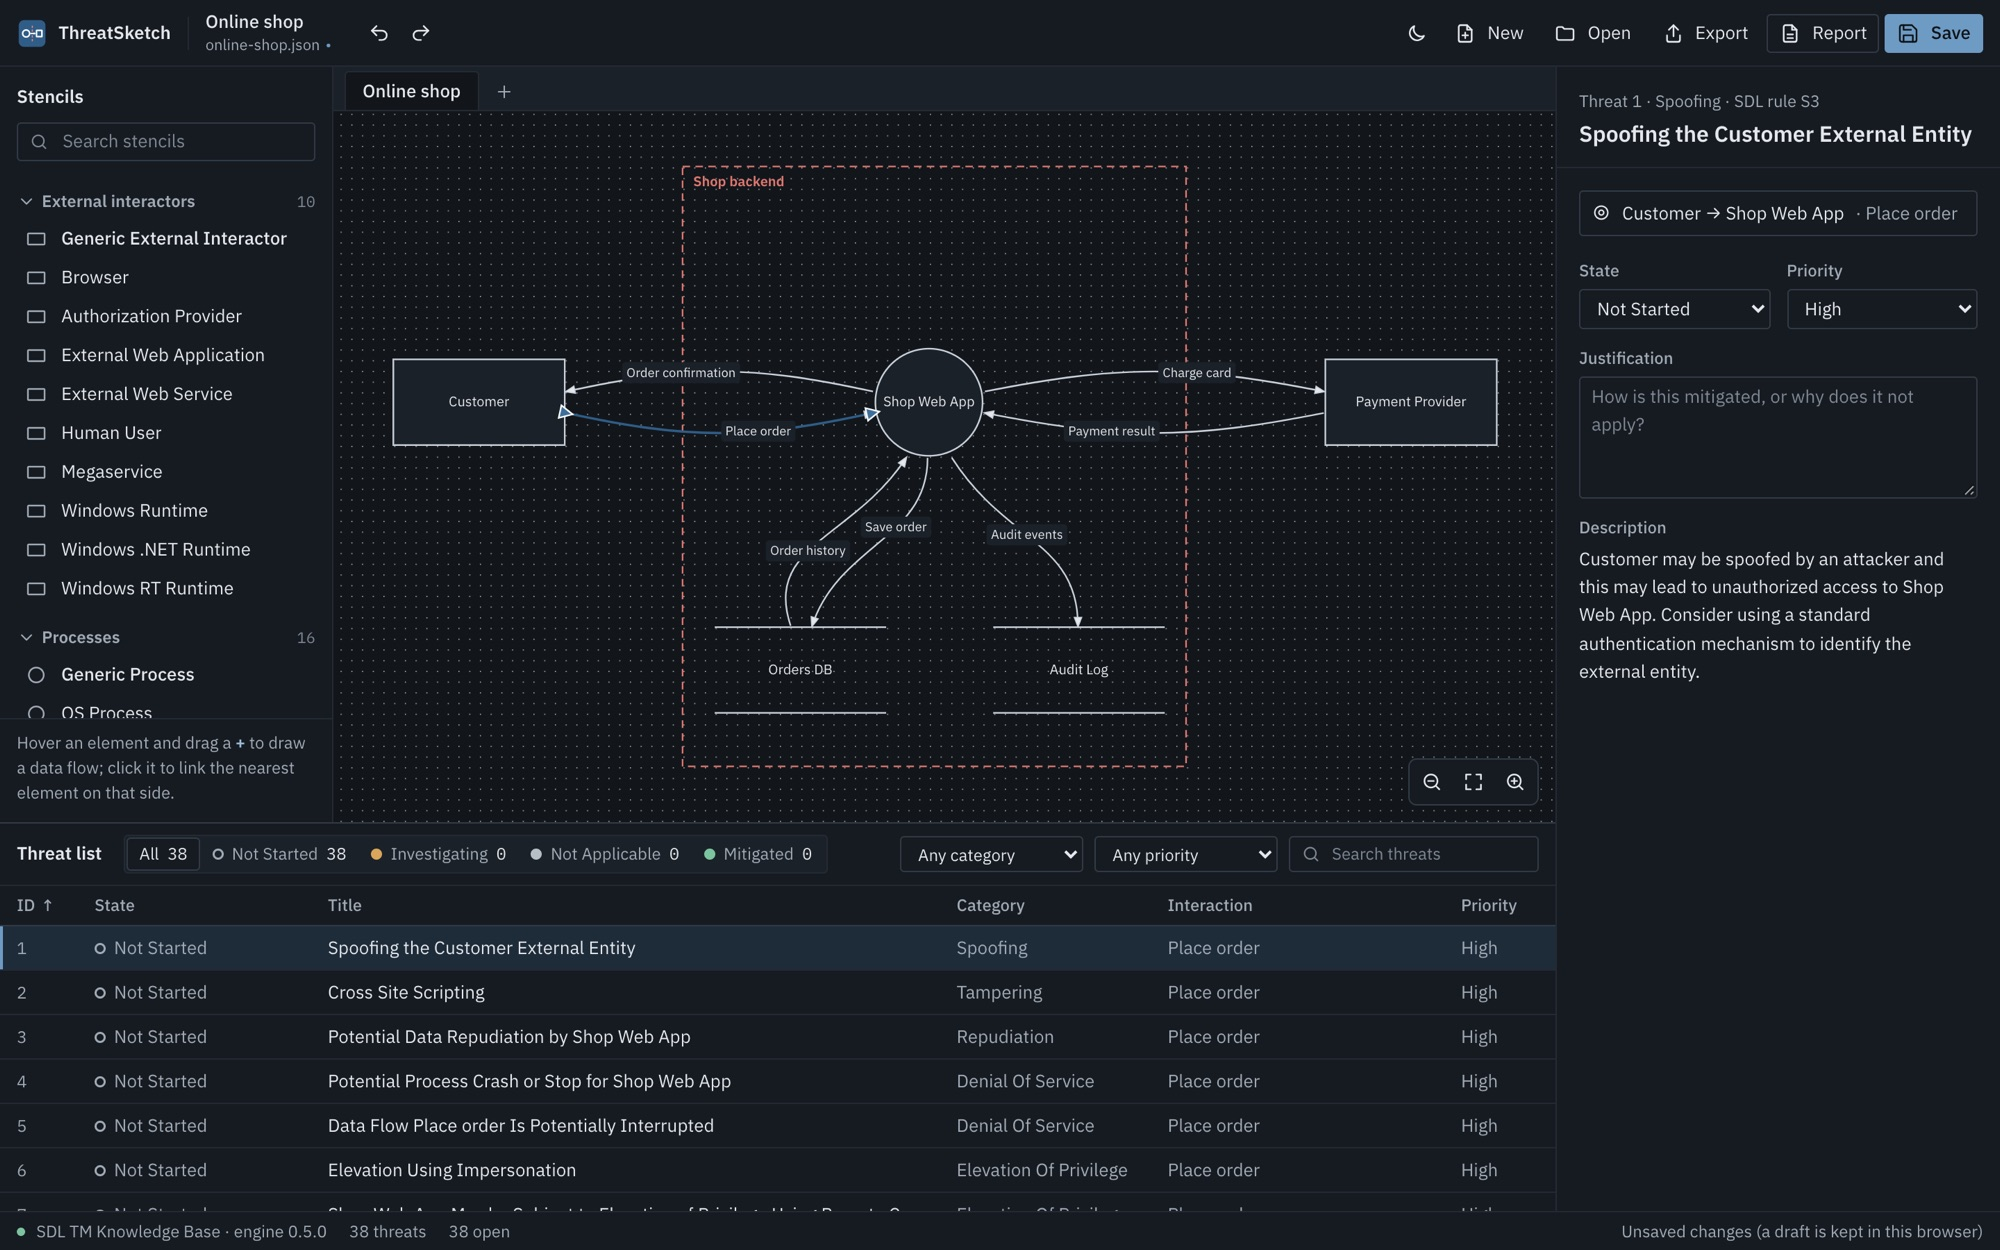
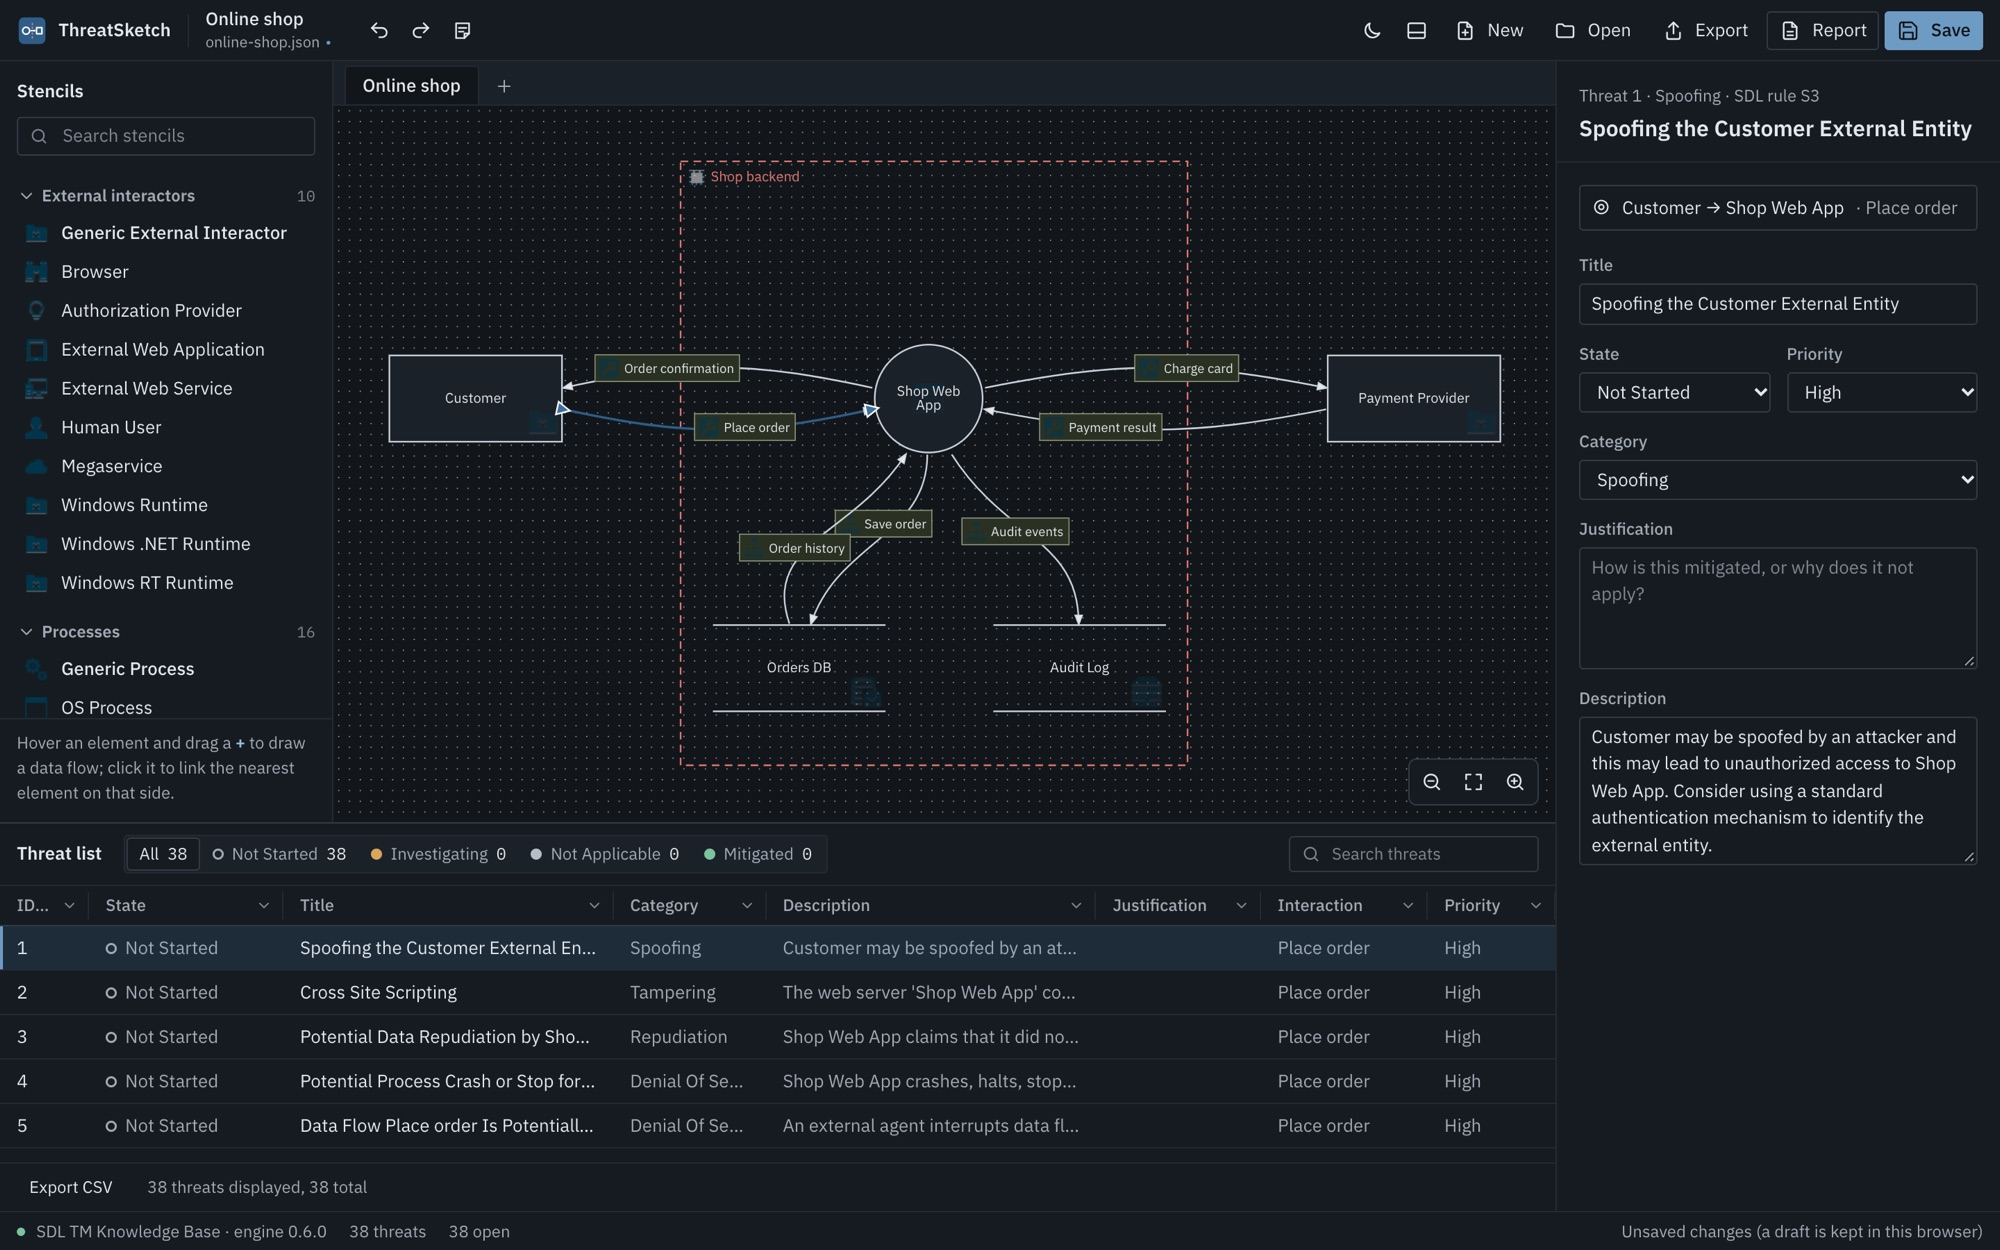
README, screenshots and changelog for 0.6.0; release 0.6.0
The README describes TMT's layout as an option and the new triage and
notes features, with a screenshot of the TMT layout; the export and
report paragraph matches the default layout again. All screenshots are
retaken (stencil icons, flow label boxes, the new threat list). The
screenshot script works in the default layout and adds the TMT one.
The changelog's Unreleased section is one coherent 0.6.0 entry, crediting
@josetseph for the TMT parity work. The ID column is a little wider so its
sort arrow fits.

diff --git a/app/src/components/ThreatList.svelte b/app/src/components/ThreatList.svelte
@@ -16,7 +16,7 @@
   // TMT's columns, in its order. Each takes at least `min` px and a share (`fr`) of the room left,
   // until it is resized by hand; columns with nothing to say yet stay out (see `cols`).
   const ALL: { col: Col; label: string; min: number; fr: number }[] = [
-    { col: "id", label: "ID", min: 48, fr: 0 },
+    { col: "id", label: "ID", min: 76, fr: 0 },
     { col: "diagram", label: "Diagram", min: 100, fr: 0.6 },
     { col: "changedBy", label: "Changed by", min: 90, fr: 0.5 },
     { col: "lastModified", label: "Last modified", min: 150, fr: 0 },
@@ -26,7 +26,7 @@
     { col: "description", label: "Description", min: 110, fr: 2 },
     { col: "justification", label: "Justification", min: 90, fr: 1 },
     { col: "interaction", label: "Interaction", min: 120, fr: 1 },
-    { col: "priority", label: "Priority", min: 64, fr: 0 },
+    { col: "priority", label: "Priority", min: 92, fr: 0 },
   ];
   // Diagram once there are two; Changed by and Last modified once something has been triaged
   const cols = $derived(ALL.filter(({ col }) =>

diff --git a/src/threatsketch/__init__.py b/src/threatsketch/__init__.py
@@ -2,6 +2,6 @@
 
 from importlib.resources import files
 
-__version__ = "0.5.1"
+__version__ = "0.6.0"
 
 DEFAULT_TEMPLATE = files("threatsketch") / "data" / "templates" / "default.tb7"

diff --git a/CHANGELOG.md b/CHANGELOG.md
@@ -6,58 +6,43 @@ One version covers the app and the command-line tool. The format follows
 
 ## [Unreleased]
 
+## [0.6.0] - 2026-10-14
+
+Most of this release is TMT parity work by @josetseph, reviewed and finished here.
+
 ### Added
 
-- TMT's Notes pane (View > Notes, or the toolbar): notes for the whole model, with Id, date and
-  author, kept in `.tm7` imports and exports, tabbed with the threat list as in TMT.
-
-- A threat's title, category and description can be edited, as in TMT's Threat Properties. The
-  edits are kept by later analyses and written to `.tm7` exports.
-- Element properties are grouped as in TMT: Predefined Static Attributes (set by the stencil),
-  then Configurable Attributes, "As Generic Process" (or interactor, store, flow).
-
-- The threat list has TMT's eleven columns in TMT's order (ID, Diagram, Changed By, Last Modified,
-  State, Title, Category, Description, Justification, Interaction, Priority), resizable, each
-  with a filter drop-down of its values, as in TMT. Below it, as in TMT: Export Csv and
-  "N Threats Displayed, M Total". The column filters replace the category and priority menus.
-
-- TMT's menu bar: File, Edit, View, Diagram, Reports and Help, with TMT's items and shortcuts.
-  New, Open, Export and Report moved into it (exports under File and Reports, as in TMT). File
-  also has Save As, Threat Model Information and Close Model; Help links to TMT's and the SDL's
-  pages.
-- TMT's toolbar, in TMT's order: Open; Design and Analysis view; add and delete diagram; copy,
-  cut, paste; undo, redo; zoom.
-- Design and Analysis views, as in TMT: Design shows the stencils, Analysis the threat list. View
-  shows or hides each pane; selecting a threat, or the threat count, opens the Analysis view.
-- Cut (Ctrl+X), and Ctrl+N, Ctrl+Shift+S and Ctrl+plus/minus for new, save as and zoom.
-
-- TMT's stencil icons, from the template: faded inside processes (centred), interactors and data
-  stores (lower right), before each trust boundary's name, and in the stencil list.
-- Flow names in TMT's pale green box with the flow stencil's icon before the name.
-
-- Assumptions and External Dependencies, TMT's two other model fields: edited in the model's
-  properties, shown in the report, and kept through `.tm7` import and export.
+- **TMT's layout, as an option.** TMT's menu bar (File, Edit, View, Diagram, Reports, Help, with
+  TMT's items and shortcuts), its toolbar in TMT's order, and Design and Analysis views. Switch
+  with the layout button in the header or View > TMT layout; the choice is remembered. The default
+  layout is unchanged: every pane in view, so threats appear as you draw.
+- **TMT's stencil icons** on the canvas and in the stencil list, and flow names in TMT's pale green
+  box with the flow stencil's icon.
+- **TMT's threat list columns**: ID, Diagram, Changed by, Last modified, State, Title, Category,
+  Description, Justification, Interaction, Priority, resizable, each with a filter of its values,
+  and Export CSV with "N threats displayed, M total" below. Columns with nothing to show yet (one
+  diagram, nothing triaged) stay out of the way.
+- **Editing a threat's title, category and description**, as in TMT's Threat Properties. Later
+  analyses keep the edits, and `.tm7` exports carry them.
+- **Last modified**: when a threat was triaged, in the list, the CSV and `.tm7` exports.
+- **TMT's Notes pane**: notes about the model, kept through `.tm7` import and export.
+- **Assumptions and External Dependencies**, TMT's other two model fields, in the model's
+  properties, the report and `.tm7` files.
+- Cut, Close model, Save as, and (desktop app) Cmd/Ctrl+N and zoom shortcuts.
 
 ### Changed
 
-- Names wrap inside their shape between words, as in TMT, instead of breaking mid-word or
-  running past the edge. Trust boundary names are no longer bold, as in TMT.
+- Element properties are grouped as in TMT: predefined static attributes, then configurable ones.
+- Names wrap inside their shape between words, as in TMT. Trust boundary names are not bold.
 
 ### Fixed
 
-- A `.tm7` imported from TMT and then renamed, or given other contributors, exported with the old
-  name and contributors; edits are now exported, and an unedited model still exports unchanged.
-- Justifications typed in TMT 7.3 were lost on `.tm7` import: TMT keeps them in the threat's
-  properties, not where import looked. A model triaged in TMT, with notes, now exports back
-  unchanged.
-
-- Last Modified shows when a threat was triaged, as TMT does ("13/10/2026 9:56:59 pm"), in the
-  list and the CSV; it was empty. Triage here stamps the time too, and `.tm7` exports carry it.
-
-- A threat TMT stored with Id 0 now shows as TMT shows it, the highest Id + 1, in the list, the
-  report and the CSV. A real TMT model's CSV now matches TMT's own export row for row.
-- A `.tm7` export kept each flow's TMT Dataflow Order at 0; it now writes back the number TMT gave
-  it, so a real TMT model exports back unchanged.
+- `.tm7` imports from TMT 7.3 lost justifications: TMT keeps them in the threat's properties.
+  Justifications and notes now round-trip exactly, line breaks included.
+- A `.tm7` export wrote every flow's Dataflow Order as 0, and the model's original name and
+  contributors even after they were edited. A real TMT model now exports back unchanged, and
+  edits are exported.
+- A threat TMT stored with Id 0 is numbered as TMT numbers it, so TMT's CSV matches row for row.
 
 ## [0.5.1] - 2026-10-14
 

diff --git a/README.md b/README.md
@@ -34,7 +34,9 @@ ThreatSketch.
   draw a data flow, or click it to link the nearest element on that side. Flows stay on the sides
   you chose, curved as in TMT or as elbow lines.
 - **Triage.** Not Started, Needs Investigation, Not Applicable and Mitigated, with priority and
-  justification.
+  justification; edit a threat's title, category and description, and keep notes, as in TMT.
+- **TMT's layout, if you want it.** TMT's menu bar, toolbar and Design and Analysis views are a
+  click away; the default layout keeps everything in view.
 - **Hand-ins.** A report laid out like TMT's Full Report (HTML or PDF), the threat list in TMT's
   CSV format, or a `.tm7` for TMT. A review list flags what a reader would trip over first, such
   as elements still named Process or Data flow.
@@ -65,13 +67,18 @@ list; the ones you have decided on stand out.
 
 **Report.** The threat report follows TMT's Full Report: a summary by state and by STRIDE
 category, the diagram, then every interaction, the boundaries it crosses, and its threats. It
-prints to A4 with page numbers; Reports > Save Full Report as PDF saves it as a PDF
-([example PDF](docs/example-report.pdf)). Reports also saves the HTML report and TMT's CSV;
-File > Export as TMT Model writes a `.tm7`.
+prints to A4 with page numbers; Export > Threat report (PDF) saves it as a PDF
+([example PDF](docs/example-report.pdf)). Export also saves the HTML report, TMT's CSV and a
+`.tm7` for TMT.
 
 ![The threat report: model details and the Threat Model Summary by state and by STRIDE category](docs/img/threatsketch-report.jpg)
 
 ![Threats in the report: each with its state, category, priority, rule, description and justification](docs/img/threatsketch-report-threats.jpg)
+
+**TMT's layout.** The layout button in the header switches to TMT's menu bar, toolbar, and Design
+and Analysis views, for those who know TMT; it remembers your choice.
+
+![ThreatSketch in TMT's layout: menu bar, toolbar, Analysis view with the threat list](docs/img/threatsketch-tmt-layout.jpg)
 
 **Dark mode** follows your system. Files, reports and exports stay black on white, as in TMT.
 
